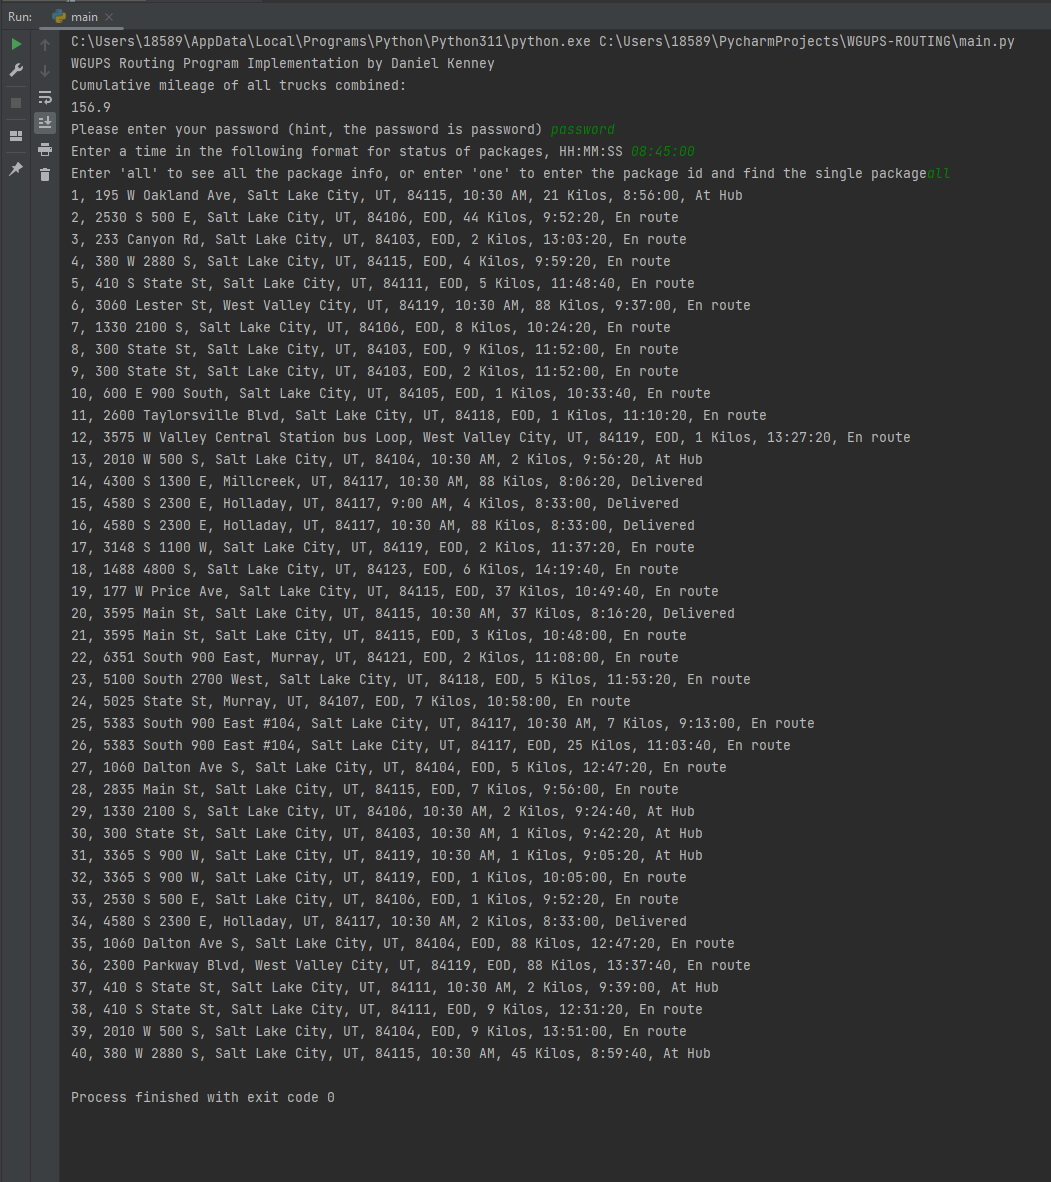
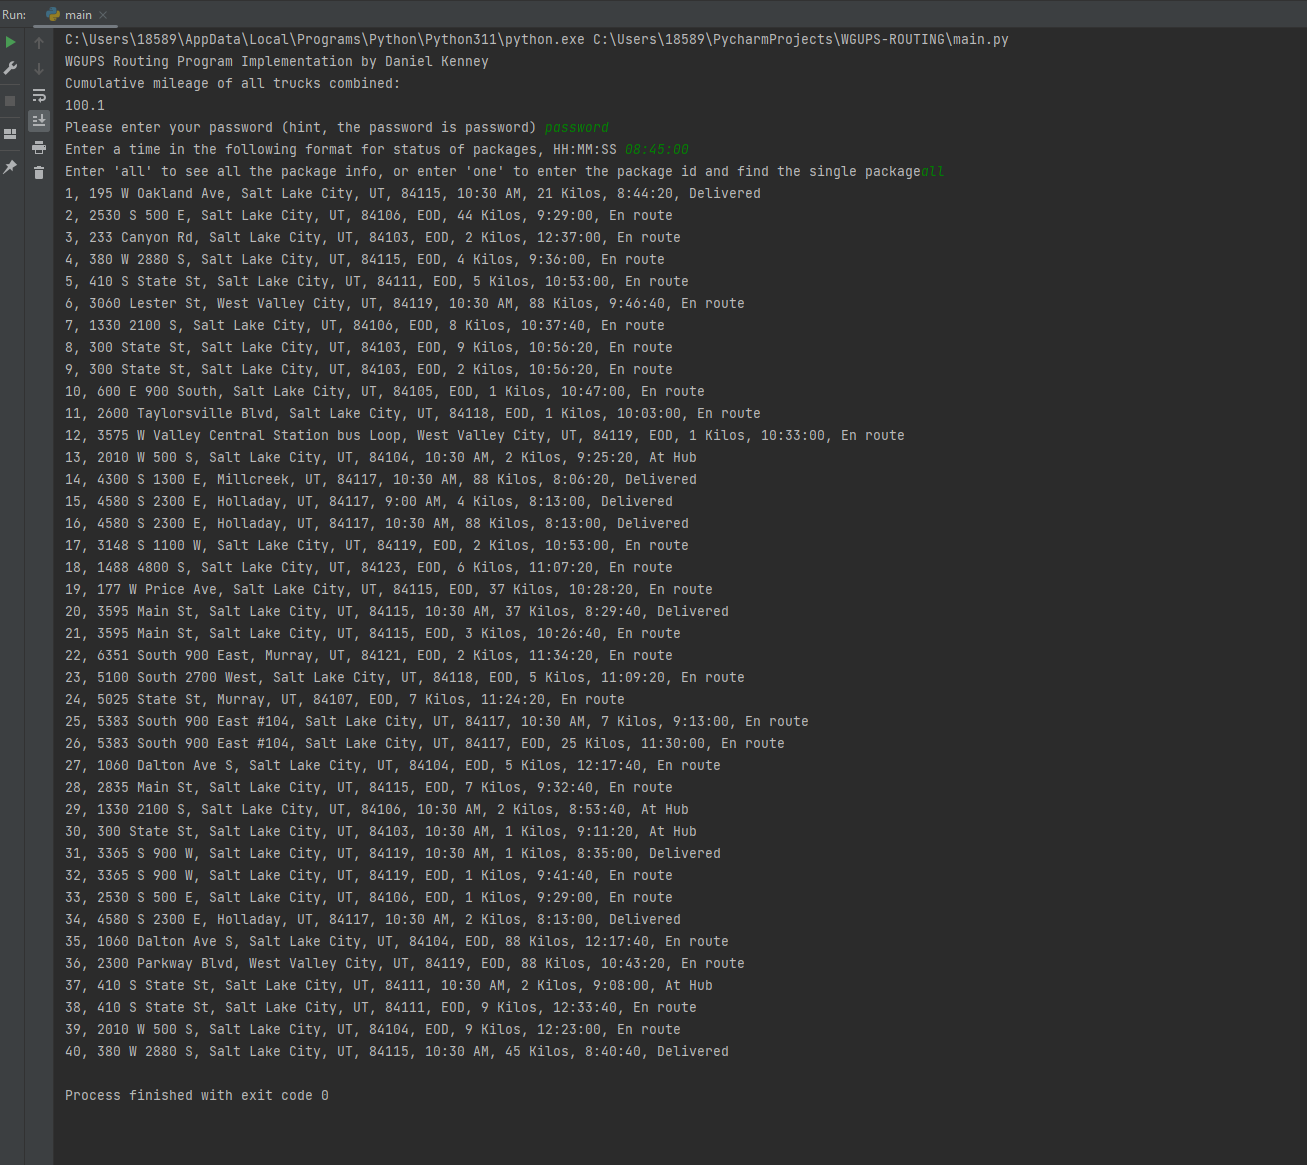
revisions made now under 140 miles

Changed region(s): [[0.0, 0.0, 0.9439, 0.9579], [0.7307, 0.5871, 0.7612, 0.6489], [0.6698, 0.2472, 0.7003, 0.2781]]

diff --git a/main.py b/main.py
@@ -120,39 +120,35 @@ package_hash_table = setup_package_data()
 
 # Define a function to deliver the packages for a given truck
 def delivering_packages(truck):
-    # Create a priority queue for packages to be delivered
-    not_delivered = PriorityQueue()
+    # While there are packages left to deliver
+    while truck.packages_array:
+        # Initialize minimum distance to a very high value
+        min_distance = float('inf')
+        # Initialize next package and its index to None
+        next_package_index = None
+        next_package = None
 
-    for packageID in truck.packages_array:
-        package = package_hash_table.get(packageID)
+        # Find the nearest package
+        for i, packageID in enumerate(truck.packages_array):
+            package = package_hash_table.get(packageID)
+            distance = get_distance_between_addresses(get_address_number(truck.current_address),
+                                                      get_address_number(package.street_address))
+            if distance < min_distance:
+                min_distance = distance
+                next_package_index = i
+                next_package = package
 
-        # Compute the priority for the package
-        distance = get_distance_between_addresses(get_address_number(truck.current_address),
-                                                  get_address_number(package.street_address))
-        deadline_hour = int(package.deadline.split(':')[0]) if package.deadline != 'EOD' else 24
-        priority = distance + deadline_hour
+        # If a next package was found
+        if next_package is not None:
+            # Remove the next package from the truck's package array
+            del truck.packages_array[next_package_index]
 
-        # Items in the priority queue are tuples where the first element is the priority
-        not_delivered.put((priority, package))
-
-    # Clear the package list of the truck for reordering
-    truck.packages_array.clear()
-
-    # Continually deliver the package with the highest priority (smallest number)
-    while not not_delivered.empty():
-        priority, next_package = not_delivered.get()
-
-        # Compute the distance to the next package's address
-        next_address = get_distance_between_addresses(get_address_number(truck.current_address),
-                                                      get_address_number(next_package.street_address))
-
-        # Update truck and package details
-        truck.packages_array.append(next_package.package_id)
-        truck.total_mileage += next_address
-        truck.current_address = next_package.street_address
-        truck.start_time += datetime.timedelta(hours=next_address / 18)
-        next_package.time_of_delivery = truck.start_time
-        next_package.time_of_departure = truck.current_time
+            # Update truck and package details
+            truck.total_mileage += min_distance
+            truck.current_address = next_package.street_address
+            truck.start_time += datetime.timedelta(hours=min_distance / 18)
+            next_package.time_of_delivery = truck.start_time
+            next_package.time_of_departure = truck.current_time
 
 
 # Define a function to execute the deliveries for a list of trucks
